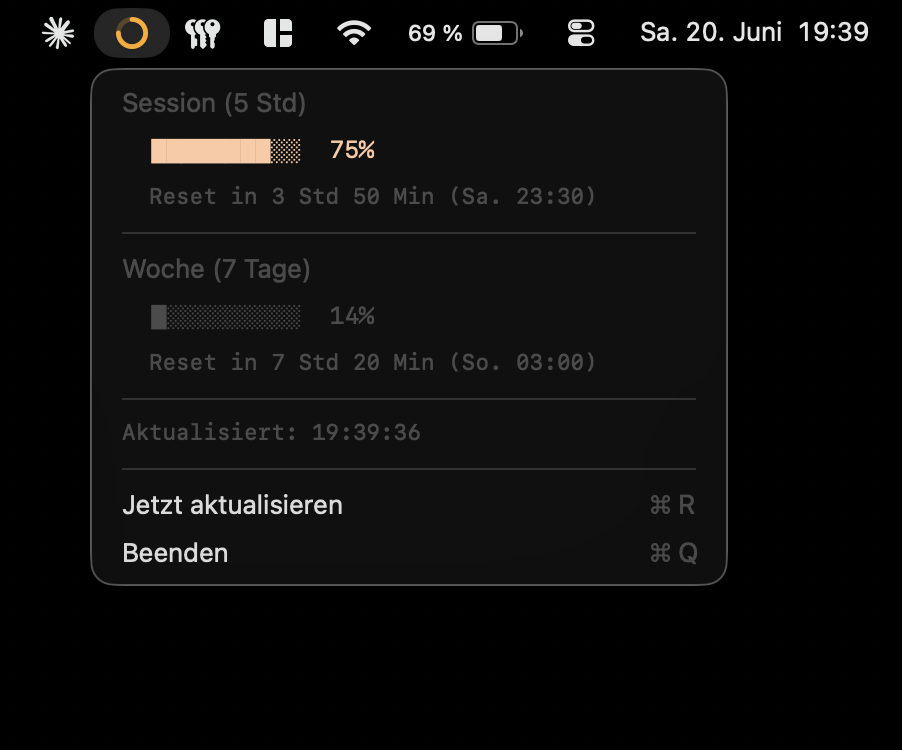
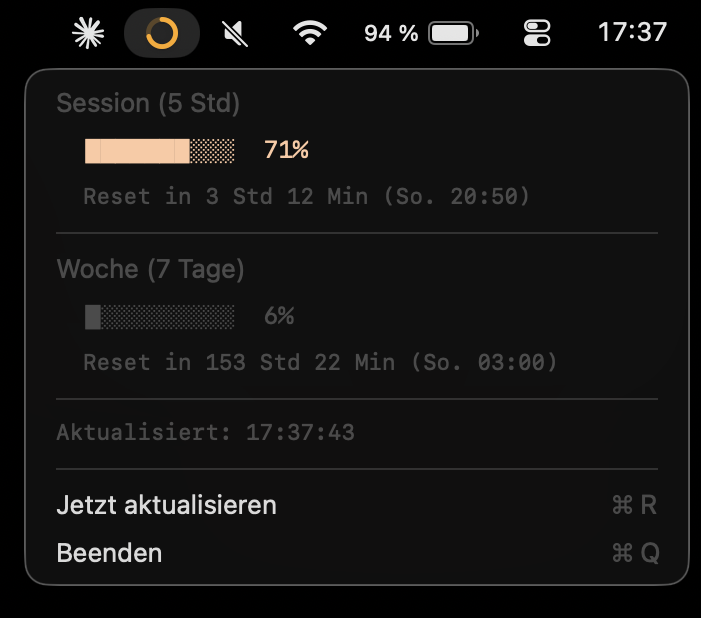
README-PDF zeigt Screenshot + aktualisierter Screenshot
- dist-files/README.md bindet docs/screenshot.png ein (erscheint im DMG-PDF)
- md2pdf: Bildpfade mit standardizingPath (löst ../ auf)
- Screenshot aktualisiert

diff --git a/md2pdf.swift b/md2pdf.swift
@@ -52,9 +52,10 @@ let imgInputDir = (inPath as NSString).deletingLastPathComponent
 let maxContentW: CGFloat = 495   // A4-Breite 595 - 2×50 Rand
 
 func makeImageAttachment(_ path: String) -> NSAttributedString? {
-    let full = path.hasPrefix("/")
+    let raw = path.hasPrefix("/")
         ? path
         : (imgInputDir as NSString).appendingPathComponent(path)
+    let full = (raw as NSString).standardizingPath   // löst ../ auf
     guard let img = NSImage(contentsOfFile: full) else { return nil }
     var sz = img.size
     if sz.width > maxContentW {                 // proportional verkleinern

diff --git a/dist-files/README.md b/dist-files/README.md
@@ -4,6 +4,8 @@ Zeigt deinen aktuellen Claude-Verbrauch direkt in der macOS-Menüleiste.
 
 Klick auf das Menüleisten-Element zeigt Details (Balken, Prozent, wann sich das Limit zurücksetzt).
 
+![Die App im Einsatz: Ring in der Menüleiste und Detail-Popover](../docs/screenshot.png)
+
 ## Voraussetzungen
 - Mac mit **Apple Silicon** (M1 oder neuer), macOS 13 oder neuer
 - **Claude Code** ist installiert und du bist eingeloggt